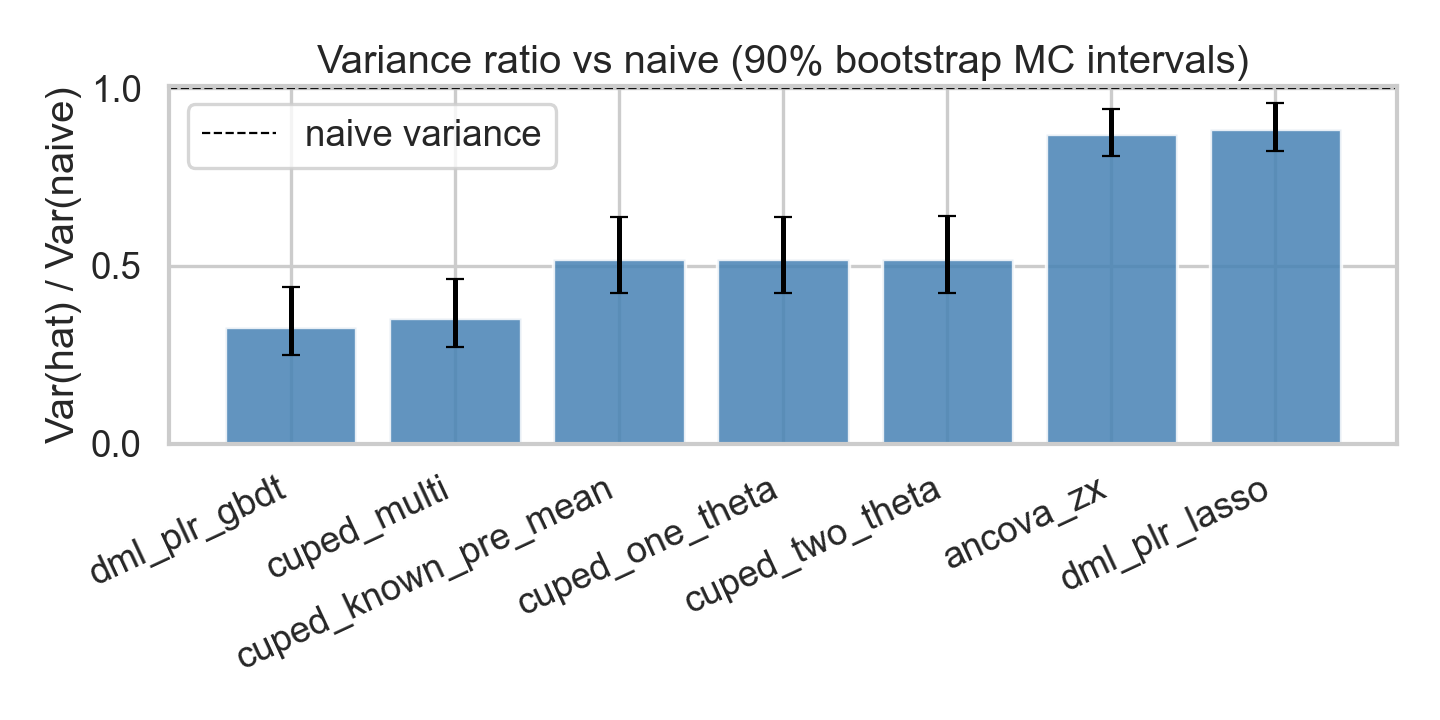
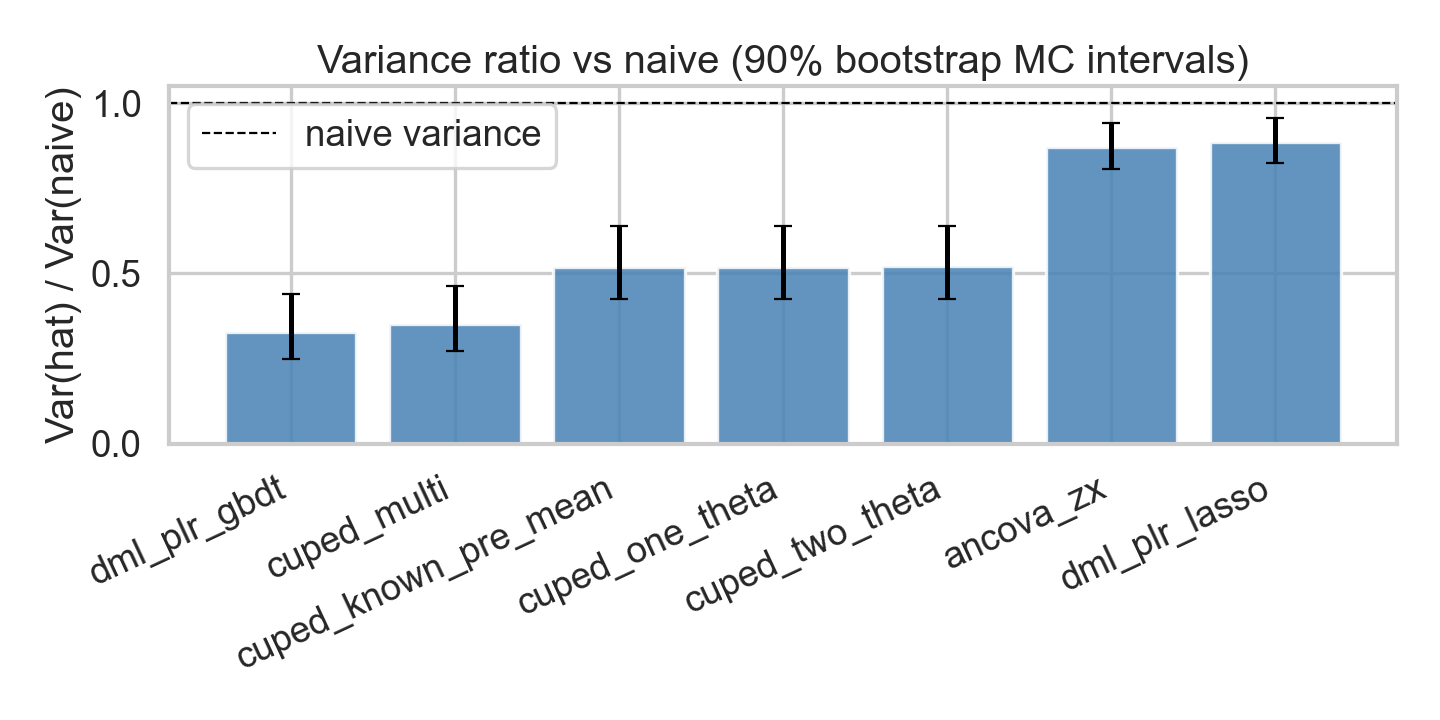
Update figures

diff --git a/run_comparison.py b/run_comparison.py
@@ -256,6 +256,7 @@ def plot_variance_bar(
     plt.xticks(x, [str(i) for i in idx], rotation=25, ha="right")
     plt.axhline(1.0, color="black", linestyle="--", linewidth=1, label="naive variance")
     plt.ylabel("Var(hat) / Var(naive)")
+    plt.ylim(0.0, 1.05)
     plt.title(f"Variance ratio vs naive ({pct}% bootstrap MC intervals)")
     plt.legend()
     plt.tight_layout()
@@ -286,7 +287,7 @@ def plot_forest_tau(
 
     fig, ax = plt.subplots(figsize=(9, 6))
     ax.errorbar(means, y, xerr=xerr, fmt="o", color="steelblue", ecolor="black", capsize=4, markersize=5)
-    ax.axvline(truth, color="steelblue", linestyle="--", linewidth=0.5, label="true ATE")
+    ax.axvline(truth, color="red", linestyle="--", linewidth=0.5, label="true ATE")
     ax.set_yticks(y)
     ax.set_yticklabels(order, fontsize=14)
     ax.tick_params(axis="x", labelsize=14)
